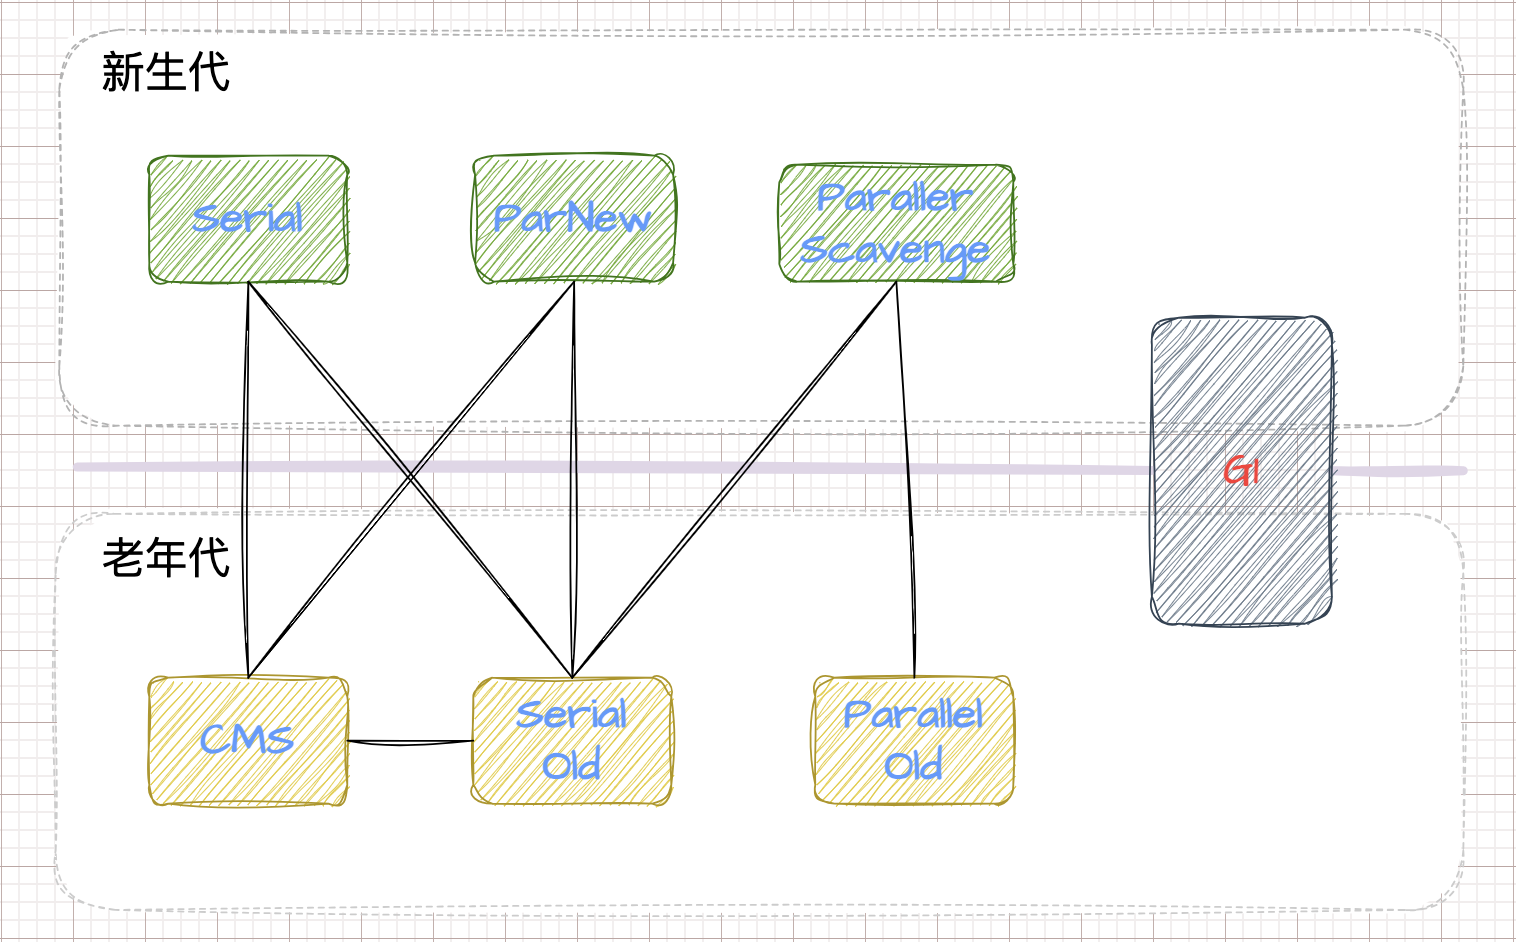
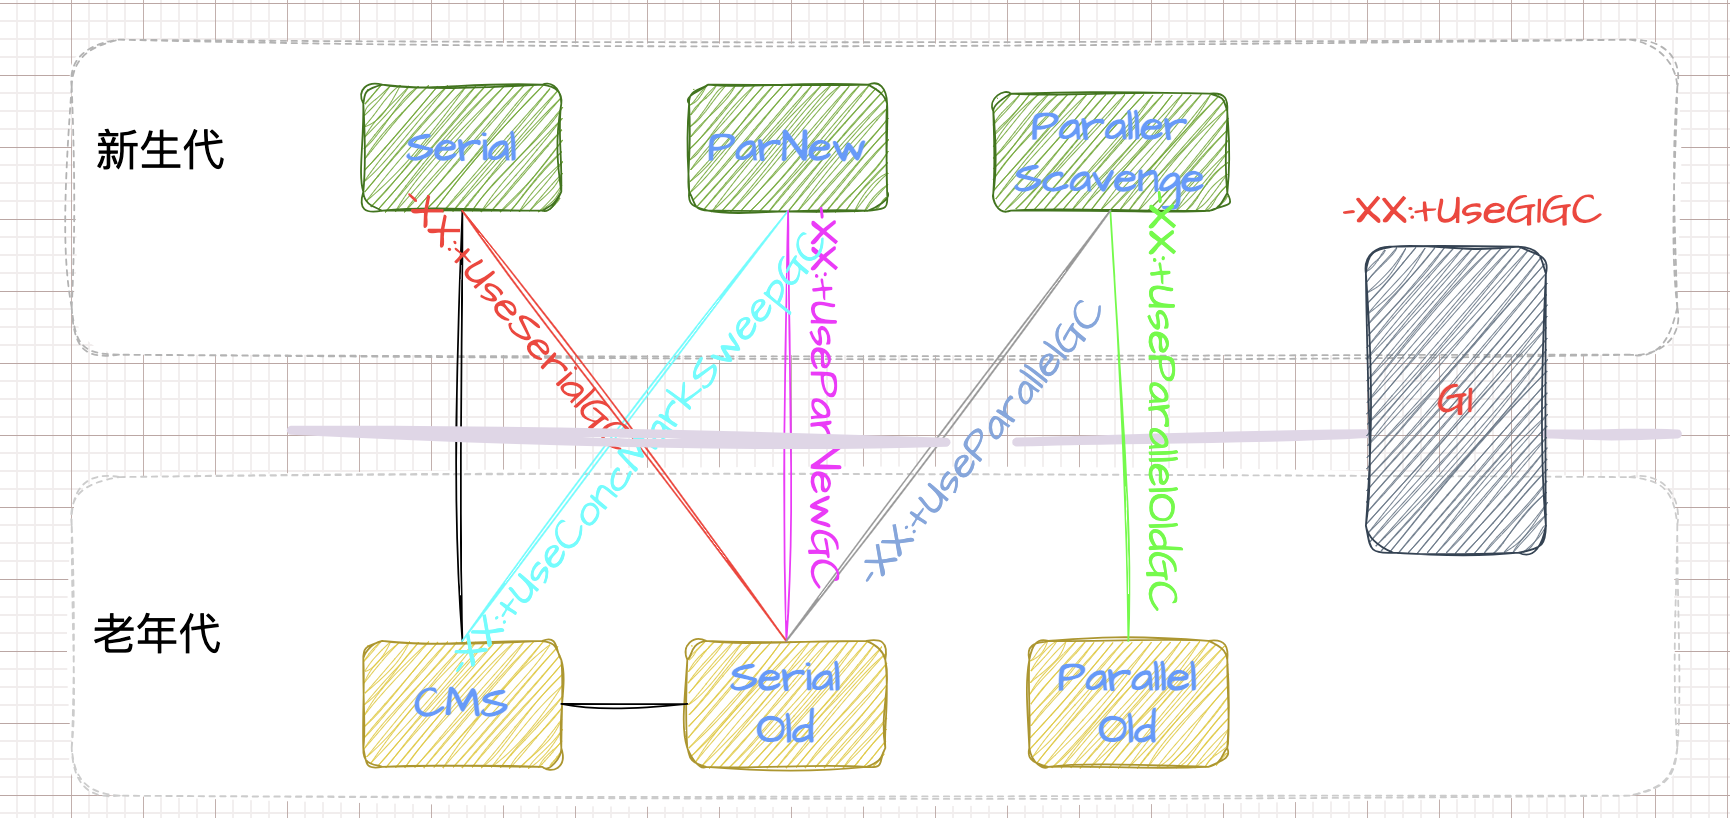
update something

diff --git a/docs/doc/advance/jvm/README.md b/docs/doc/advance/jvm/README.md
@@ -135,7 +135,39 @@
             * https://www.cnblogs.com/mic112/p/15520770.html#字面量是什么时候进入到字符串常量池的
             * https://cloud.tencent.com/developer/article/2110482
     
+    + ### 虚拟机栈
+
+        !> 运行过程可以参考[一个类运行的全过程](../javastrace.md)
+        - #### 局部变量表
+        
+            ?> 帧栈中，有局部变量表来存储数据，包括参数，所需的内存空间在编译期间就确定了。
+            <br>存储单位是Slot【32bi t】,一个slot就是JVM规范对局部变量区里存储一个局部变量的存储单元的叫法。每个slot可以存储一个宽度在32位或以下的原始类型值，或者一个引用，或一个returnAddress；相邻的两个slot可存储一个double或long型的值。[参考](https://hllvm-group.iteye.com/group/topic/25858),另外参考中也有例子体现slot复用性。
+            <br>根据索引的方式定位局部变量表，下标从0开始。非静态方法的0位是this,静态方法的从参数开始排列
+            <br><br>slot复用：[影响GC](https://blog.csdn.net/weixin_38106322/article/details/108785468)。当同一个帧栈中局部方法中变量没有被复用，会导致无法垃圾回收。
+        
+        - #### 操作数栈
+        
+            ?> 先进后出的数据存储结构，可以存储任意的Java数据类型。用来进行算数运算，参数传递及临时存储
+            <br><br>[栈顶缓存技术](https://blog.csdn.net/qq_40298351/article/details/120730602)。操作数在内存中，频繁操作影响性能。可以将栈顶全部元素缓存在物理CPU寄存器中
+        
+        - #### 动态链接
+        
+        - #### 方法返回地址
+
+            > [!COMMENT]
+            [参考](https://www.yuque.com/yangxiaofei-vquku/wmp1zm/mggrlr#yQ65Z)
+      
+    + ### 本地方法栈
+
+        > 类比虚拟机栈，不过这个是针对本地语言（c/c++），方法一般由native修饰。
+
+    + ### 程序计数器
+
+        > 一块比较小的内存空间，可以看做事当前线程所需执行字节码的行号指示器，通常由执行引擎开执行程序计数器所指向的行号内容。更确切的说。一个线程的执行，是通过字节码解释器改变当前线程 的计数器的值，来获取下一条需要执行的字节码指令，从而确保线程的正确执行。
+
     + ### 堆
+
+        ![](/.images/doc/advance/jvm/jvm-heap-struct-01.png ':size=80% :align=center')
 
         - #### 垃圾回收算法
 
@@ -158,12 +190,26 @@
 
         - #### 垃圾回收器
 
+            ![](/.images/doc/advance/jvm/jvm-gc-01.png ':size=100%')
+            <!-- panels:start -->
+            <!-- div:left-panel-38 -->
             > [!TIP|style:flat]
             [Ref:ParNew 和 PSYoungGen 和 DefNew 是一个东西么？](https://zhidao.baidu.com/question/602094329.html)
             <br>是这样的。 串行收集器： DefNew：是使用-XX:+UseSerialGC（新生代，老年代都使用串行回收收集器）。 并行收集器： ParNew：是使用-XX:+UseParNewGC（新生代使用并行收集器，老年代使用串行回收收集器）或者-XX:+UseConcMarkSweepGC(新生代使用并行收集器，老年代使用CMS)。 PSYoungGen：是使用-XX:+UseParallelOldGC（新生代，老年代都使用并行回收收集器）或者-XX:+UseParallelGC（新生代使用并行回收收集器，老年代使用串行收集器） garbage-first heap：是使用-XX:+UseG1GC（G1收集器).
             <br><br>[垃圾回收器优缺点](https://blog.csdn.net/high2011/article/details/80177473)
+            <br><br>[参考1](https://stackoverflow.com/questions/6236726/whats-the-difference-between-parallelgc-and-paralleloldgc)，[参考2](https://blog.ragozin.info/2011/07/hotspot-jvm-garbage-collection-options.html)中好像ParallelGC和ParallelOldGC描述反了。
 
-            ![](/.images/doc/advance/jvm/jvm-gc-01.png ':size=80%x560 :align=center')
+            <!-- div:right-panel-62 -->
+            | 名称              | 模式      | 分代  | 说明                                                         |
+            | ----------------- | --------- | ----- | ------------------------------------------------------------ |
+            | Serial            | 串行      | 新    | 单线程串行收集器                                             |
+            | ParNew            | 并行      | 新    | serial 的并行版本                                            |
+            | Parallel Scavenge | 并行      | 新    | 不同体系，并行吞吐量优先。可以通过参数来打开自适应调节策略，<br />虚拟机会根据当前运行情况收集性能监控信息，<br />动态调整这些参数以提供最合适的停顿时间或最大的吞吐量，<br />可以通过参数控制GC时间范围或者比例。 |
+            | Parallel Old      | 并行      | 老    | 针对PSScavenge的老年代收集器                                 |
+            | Serial Old        | 串行      | 老    | serial老年代                                                 |
+            | CMS               | 并发      | 老    | 并行最短时间收集器                                           |
+            | G1                | 并发/并行 | 新/老 | 面向局部收集和基于Region内存布局的新型低延时收集器           |
+            <!-- panels:end -->
 
             + ##### Serial
 
@@ -204,47 +250,9 @@
                 <br>牺牲CPU资源来减少用户线程的停顿。当CPU个数少于4的时候，有可能对吞吐量影响非常大
                 <br>CMS在并发清理的过程中，用户线程还在跑，这时候需要预留一部分空间给用户线程
                 <br>会带来碎片化问题，碎片过多很容易触发Full GC。
+                <br><br>1、初始标记（CMS initial mark）2、并发标记（CMS concurrent mark）3、重新标记（CMS remark）4、并发清除（CMS concurrent sweep）
+
         
-
-            | 名称              | 模式      | 分代  | 说明                                                         |
-            | ----------------- | --------- | ----- | ------------------------------------------------------------ |
-            | Serial            | 串行      | 新    | 单线程串行收集器                                             |
-            | ParNew            | 并行      | 新    | serial 的并行版本                                            |
-            | Parallel Scavenge | 并行      | 新    | 不同体系，并行吞吐量优先。可以通过参数来打开自适应调节策略，<br />虚拟机会根据当前运行情况收集性能监控信息，<br />动态调整这些参数以提供最合适的停顿时间或最大的吞吐量，<br />可以通过参数控制GC时间范围或者比例。 |
-            | Parallel Old      | 并行      | 老    | 针对PSScavenge的老年代收集器                                 |
-            | Serial Old        | 串行      | 老    | serial老年代                                                 |
-            | CMS               | 并发      | 老    | 并行最短时间收集器                                           |
-            | G1                | 并发/并行 | 新/老 | 面向局部收集和基于Region内存布局的新型低延时收集器           |
-
-    + ### 虚拟机栈
-
-        !> 运行过程可以参考[一个类运行的全过程](../javastrace.md)
-        - #### 局部变量表
-        
-            ?> 帧栈中，有局部变量表来存储数据，包括参数，所需的内存空间在编译期间就确定了。
-            <br>存储单位是Slot【32bi t】,一个slot就是JVM规范对局部变量区里存储一个局部变量的存储单元的叫法。每个slot可以存储一个宽度在32位或以下的原始类型值，或者一个引用，或一个returnAddress；相邻的两个slot可存储一个double或long型的值。[参考](https://hllvm-group.iteye.com/group/topic/25858),另外参考中也有例子体现slot复用性。
-            <br>根据索引的方式定位局部变量表，下标从0开始。非静态方法的0位是this,静态方法的从参数开始排列
-            <br><br>slot复用：[影响GC](https://blog.csdn.net/weixin_38106322/article/details/108785468)。当同一个帧栈中局部方法中变量没有被复用，会导致无法垃圾回收。
-        
-        - #### 操作数栈
-        
-            ?> 先进后出的数据存储结构，可以存储任意的Java数据类型。用来进行算数运算，参数传递及临时存储
-            <br><br>[栈顶缓存技术](https://blog.csdn.net/qq_40298351/article/details/120730602)。操作数在内存中，频繁操作影响性能。可以将栈顶全部元素缓存在物理CPU寄存器中
-        
-        - #### 动态链接
-        
-        - #### 方法返回地址
-
-            > [!COMMENT]
-            [参考](https://www.yuque.com/yangxiaofei-vquku/wmp1zm/mggrlr#yQ65Z)
-      
-    + ### 本地方法栈
-
-        > 类比虚拟机栈，不过这个是针对本地语言（c/c++），方法一般由native修饰。
-
-    + ### 程序计数器
-
-        > 一块比较小的内存空间，可以看做事当前线程所需执行字节码的行号指示器，通常由执行引擎开执行程序计数器所指向的行号内容。更确切的说。一个线程的执行，是通过字节码解释器改变当前线程 的计数器的值，来获取下一条需要执行的字节码指令，从而确保线程的正确执行。
 
 * ## 扩展
 
@@ -266,10 +274,10 @@
         
     + ### 新生代到老年代的标准
 
-        1. -XX:MaxTenuringThreshlod设置的默认对象年龄【15】，因为对象年龄用4bit 位表示，最大1111(15)。
-        2. 动态对象年龄判断：survivor区域中年龄从低到高对象大小总和大于-XX:TargetSurvivorRatio[:50%]，则将当前年龄及大雨当前年龄的对象晋升。[误区](https://my.oschina.net/xpbob/blog/2221709 )
+        1. -XX:MaxTenuringThreshlod设置的默认对象年龄【15】，因为对象年龄用4bit 位表示，最大1111(15)。【[参考|docs](/docs/doc/base/OO?id=对象头)】
+        2. 动态对象年龄判断：误区：~如果在survivor空间中相同年龄所有对象大小的总和大于survivor空间的一半，大于等于该年龄的可以直接进入老年代~ 。而是`survivor区域中年龄从1-N对象大小总和大于 -XX:TargetSurvivorRatio[:50%]，则将 >= N年龄的对象晋升`。[误区解释](https://segmentfault.com/a/1190000039805691 'https://my.oschina.net/xpbob/blog/2221709' )
         3. 大对象直接进入老年代：-XX:PretenureSizeThreshold。超过这个值的对象直接放在老年代。
-        4. 空间分配担保机制：[src](https://blog.csdn.net/qq_40662405/article/details/114783644)
+        4. 空间分配担保机制：[参考](https://blog.csdn.net/qq_40662405/article/details/114783644)
         ![](/.images/doc/advance/jvm/handler-promotion-failure.png)
 
     + ### GCROOT 对象
@@ -286,7 +294,7 @@
 
         <!-- panels:start -->
         <!-- div:left-panel-50 -->
-        ?> mac
+        ?> mac `-XX:+UseParalleGC = PSYoungGen + ParOldGen`
 
         ![](/.images/doc/advance/jvm/jvm-platform-diff-01.png)
         <!-- div:right-panel-50 -->
@@ -335,6 +343,18 @@
         >
         > 如何判断对象是那个代的？ 估计跟对象头有关。比如对象头中的年龄。
 
+    + ### 既时编译JIT(Just-in-time compilation)
+
+        ?> [参考](https://tech.meituan.com/2020/10/22/java-jit-practice-in-meituan.html)
+
+        > java为了实现一次编译，处处运行。将编译分为两部，首先它由javac 编译成中间代码-字节码。然后由解释器逐条将字节码解释为机器码[本地代码]来执行。所以在性能上Java通常不如C++这样的编译类型语言。为了优化Java的性能。JVM在解释器之外引入了即时（just in time）编译。先由解释器解释执行，达到阈值后，编译成字节码，存入codeCache中。当下次执行，再遇到这段代码，就会从codeCache中读取机器码，直接执行。
+        >
+        > `-Xint ` 解释执行
+        >
+        > `-Xcomp` 编译执行
+        >
+        > JVM1.8 Macon 默认 mixed .混合执行。
+
     + ### JIT优化技术
 
         * 方法内联：把目标方法复制到调用方法中。避免发声真实调用带来的性能损耗
@@ -347,23 +367,10 @@
         * 标量替换/分离对象
         * 锁消除
 
-    + ### 既时编译JIT
-
-        ?> [参考](https://tech.meituan.com/2020/10/22/java-jit-practice-in-meituan.html)
-
-        > java为了实现一次编译，处处运行。将编译分为两部，首先它由javac 编译成中间代码-字节码。然后由解释器逐条将字节码解释为机器码[本地代码]来执行。所以在性能上Java通常不如C++这样的编译类型语言。为了优化Java的性能。JVM在解释器之外引入了即时（just in time）编译。先由解释器解释执行，达到阈值后，编译成字节码，存入codeCache中。当下次执行，再遇到这段代码，就会从codeCache中读取机器码，直接执行。
-        >
-        > `-Xint ` 解释执行
-        >
-        > `-Xcomp` 编译执行
-        >
-        > JVM1.8 Macon 默认 mixed .混合执行。
-
     + ### SafePoint
-    + ### LTAB
+    + ### LTAB(Thread Local Allocation Buffer)
 
         ?> [Ref](https://juejin.cn/post/7159736747788599326)
-
 
 * ## 常见问题及调优
 
